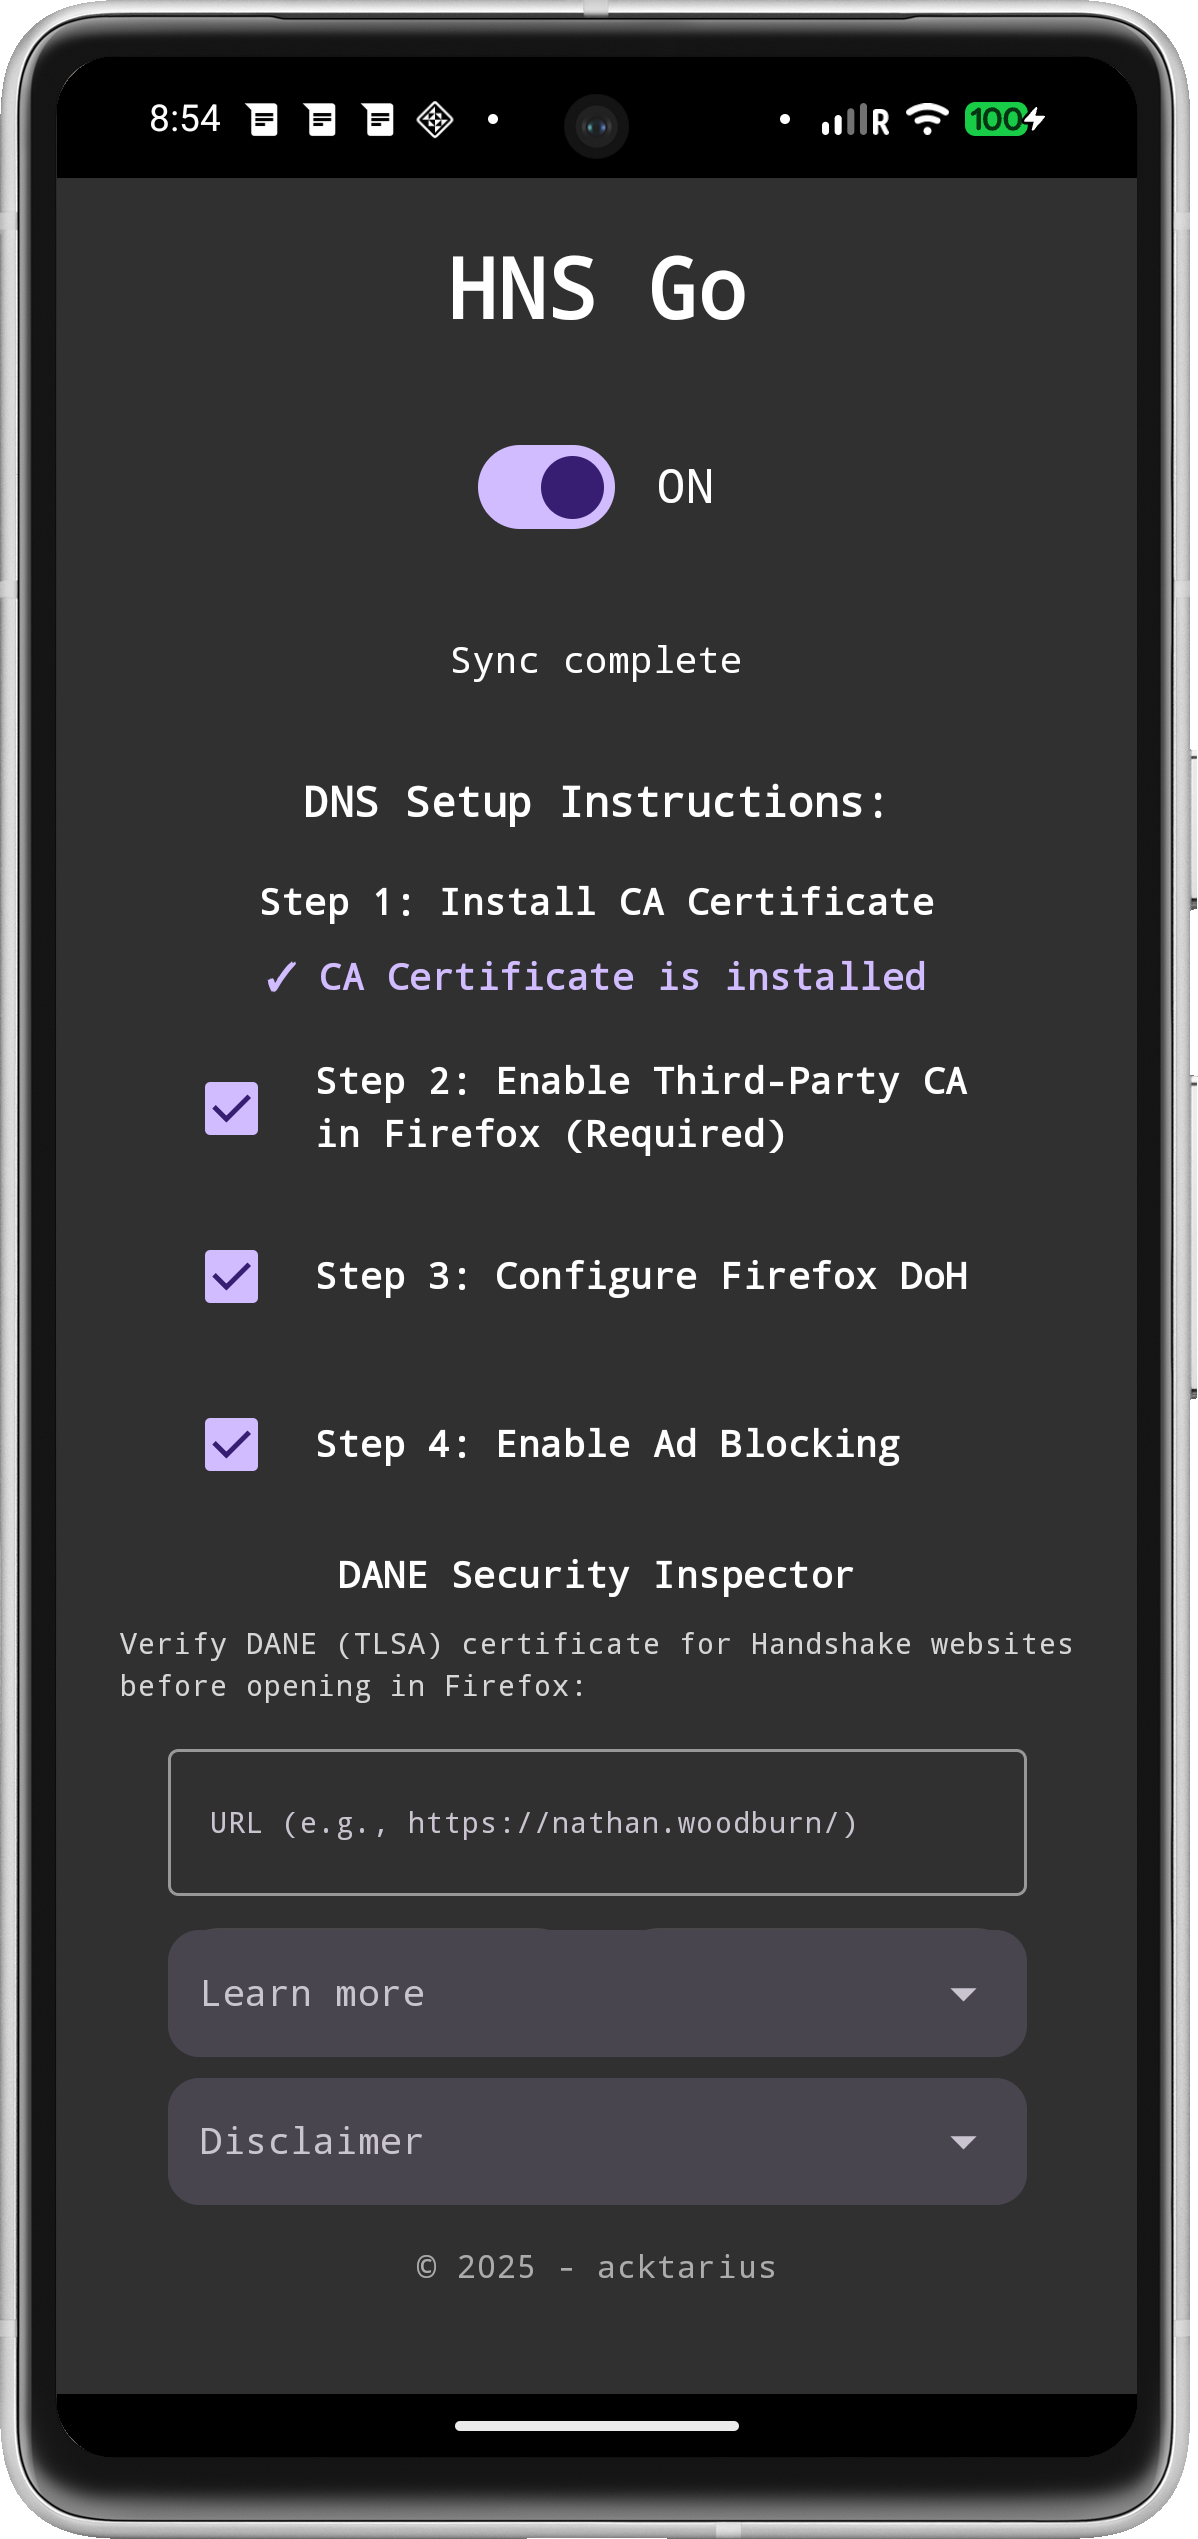
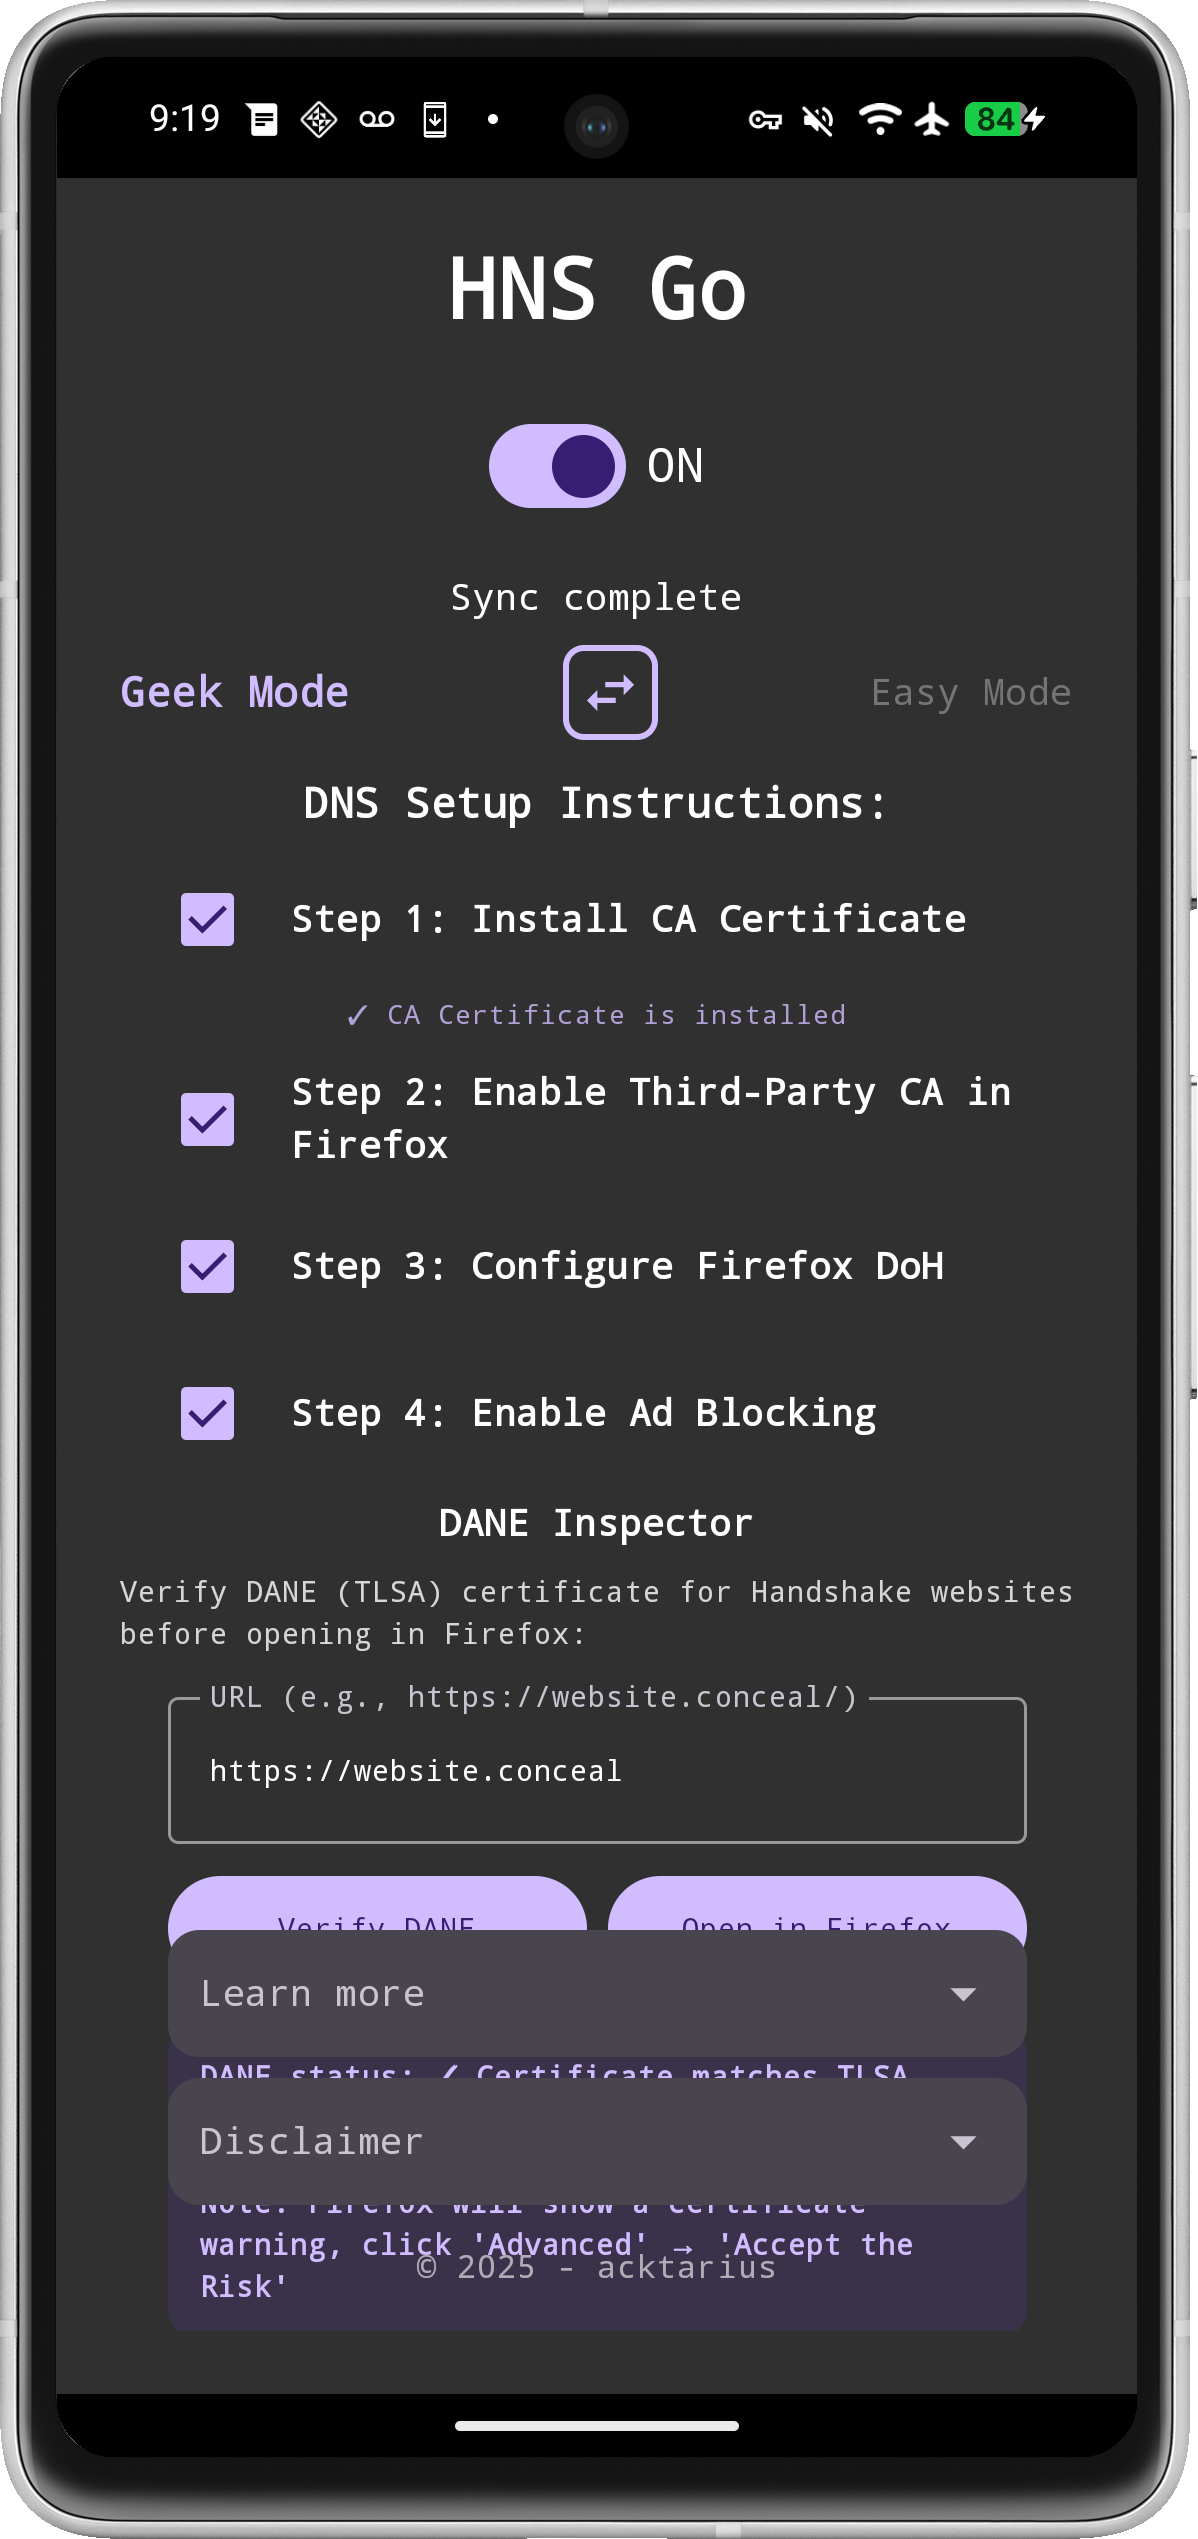
improve rss compatibility

diff --git a/android/app/src/main/java/com/acktarius/hnsgo/browser/WebViewBrowser.kt b/android/app/src/main/java/com/acktarius/hnsgo/browser/WebViewBrowser.kt
@@ -26,8 +26,8 @@ import androidx.compose.foundation.layout.padding
 import androidx.compose.foundation.layout.size
 import androidx.compose.foundation.shape.RoundedCornerShape
 import androidx.compose.material.icons.Icons
-import androidx.compose.material.icons.filled.ArrowBack
-import androidx.compose.material.icons.filled.ArrowForward
+import androidx.compose.material.icons.automirrored.filled.ArrowBack
+import androidx.compose.material.icons.automirrored.filled.ArrowForward
 import androidx.compose.material.icons.filled.Close
 import androidx.compose.material.icons.filled.Home
 import androidx.compose.material.icons.filled.Refresh
@@ -167,7 +167,7 @@ fun WebViewBrowser(
                 glowColor = primaryPurple
             ) {
                 Icon(
-                    Icons.Default.ArrowBack,
+                    Icons.AutoMirrored.Filled.ArrowBack,
                     contentDescription = "Back",
                     modifier = Modifier.size(20.dp),
                     tint = primaryPurple
@@ -180,7 +180,7 @@ fun WebViewBrowser(
                 glowColor = primaryPurple
             ) {
                 Icon(
-                    Icons.Default.ArrowForward,
+                    Icons.AutoMirrored.Filled.ArrowForward,
                     contentDescription = "Forward",
                     modifier = Modifier.size(20.dp),
                     tint = primaryPurple
@@ -486,10 +486,13 @@ fun WebViewBrowser(
                             @android.webkit.JavascriptInterface
                             fun clearCookiesAndHistory(): Boolean {
                                 return try {
-                                    BrowserPrivacyUtils.clearAllPrivacyDataSync(
-                                        webView = webViewState,
-                                        dao = dao
-                                    )
+                                    // Use the async function that properly clears database history
+                                    runBlocking {
+                                        BrowserPrivacyUtils.clearCookiesAndHistory(
+                                            webView = webViewState,
+                                            dao = dao
+                                        )
+                                    }
                                     true
                                 } catch (e: Exception) {
                                     android.util.Log.e("WebViewBrowser", "Error clearing data: ${e.message}", e)
@@ -503,6 +506,48 @@ fun WebViewBrowser(
                                 view: WebView?,
                                 request: WebResourceRequest?
                             ): Boolean {
+                                // Check if this is an RSS feed URL - intercept it to prevent download
+                                request?.url?.toString()?.let { url ->
+                                    val urlLower = url.lowercase()
+                                    val urlPath = try {
+                                        val uri = java.net.URI(urlLower)
+                                        uri.path ?: ""
+                                    } catch (e: Exception) {
+                                        val pathStart = urlLower.indexOf('/', urlLower.indexOf("://") + 3)
+                                        if (pathStart >= 0) urlLower.substring(pathStart) else ""
+                                    }
+                                    
+                                    // If it's an RSS feed URL, manually intercept and load through our interceptor
+                                    if (urlPath.isNotEmpty() && (
+                                        urlPath.contains("/rss") || 
+                                        urlPath.contains("/feed") || 
+                                        urlPath.contains("/atom") ||
+                                        urlPath.endsWith(".rss") ||
+                                        (urlPath.endsWith(".xml") && (urlPath.contains("rss") || urlPath.contains("feed")))
+                                    )) {
+                                        // Manually intercept the RSS feed
+                                        scope.launch(Dispatchers.IO) {
+                                            try {
+                                                val response = dnsInterceptor.interceptRequest(request)
+                                                if (response != null) {
+                                                    // Read the HTML response
+                                                    val htmlBytes = response.data.readBytes()
+                                                    val html = String(htmlBytes, Charsets.UTF_8)
+                                                    
+                                                    // Load the HTML on main thread
+                                                    withContext(Dispatchers.Main) {
+                                                        view?.loadDataWithBaseURL(url, html, "text/html", "UTF-8", null)
+                                                    }
+                                                }
+                                            } catch (e: Exception) {
+                                                android.util.Log.e("WebViewBrowser", "Error intercepting RSS feed: ${e.message}", e)
+                                            }
+                                        }
+                                        // Return true to tell WebView we're handling this
+                                        return true
+                                    }
+                                }
+                                
                                 // Allow all navigation - don't block same-origin or fragment changes
                                 // This is critical for JavaScript navigation and in-page links
                                 return false // Let WebView handle the navigation
@@ -817,18 +862,12 @@ fun WebViewBrowser(
     
     DisposableEffect(Unit) {
         onDispose {
-            // Privacy: Clear all cookies and data when browser is closed
-            // Fast non-blocking clear, then destroy WebView immediately
+            // Privacy: Clear cookies and cache when browser is closed (preserves history)
             BrowserPrivacyUtils.clearAllPrivacyDataSync(
                 webView = webViewState,
                 dao = null // Skip database in sync version to prevent ANR
             )
             webViewState?.destroy()
-            
-            // Clear database asynchronously (non-blocking)
-            scope.launch(Dispatchers.IO) {
-                dao.clearHistory()
-            }
         }
     }
 }

diff --git a/android/app/src/main/java/com/acktarius/hnsgo/browser/InterceptRss.kt b/android/app/src/main/java/com/acktarius/hnsgo/browser/InterceptRss.kt
@@ -18,24 +18,57 @@ object InterceptRss {
     /**
      * Check if a response is an RSS/Atom feed based on MIME type or content
      */
-    fun isRssFeed(mimeType: String, bodyBytes: ByteArray?): Boolean {
-        // Check MIME type
-        val mimeLower = mimeType.lowercase()
-        if (mimeLower.contains("rss") || 
-            mimeLower.contains("atom") ||
-            mimeLower == "application/xml" ||
-            mimeLower == "text/xml") {
-            
-            // For XML types, check content to confirm it's actually RSS/Atom
-            if (bodyBytes != null && bodyBytes.isNotEmpty()) {
-                val content = String(bodyBytes, StandardCharsets.UTF_8).lowercase()
-                return content.contains("<rss") || 
-                       content.contains("<feed") ||
-                       content.contains("xmlns=\"http://www.w3.org/2005/atom\"")
+    fun isRssFeed(mimeType: String, bodyBytes: ByteArray?, url: String? = null): Boolean {
+        // Check URL pattern first (fast check) - be more specific to avoid false positives
+        url?.let {
+            val urlLower = it.lowercase()
+            // Check for RSS/feed/atom in the path (after domain), not in domain name
+            val urlPath = try {
+                val uri = java.net.URI(urlLower)
+                uri.path ?: ""
+            } catch (e: Exception) {
+                // Fallback: extract path manually
+                val pathStart = urlLower.indexOf('/', urlLower.indexOf("://") + 3)
+                if (pathStart >= 0) urlLower.substring(pathStart) else ""
             }
-            return true
+            
+            // Check path for RSS indicators (not domain name) - only if path exists
+            if (urlPath.isNotEmpty() && (
+                urlPath.contains("/rss") || 
+                urlPath.contains("/feed") || 
+                urlPath.contains("/atom") ||
+                urlPath.endsWith(".rss") ||
+                (urlPath.endsWith(".xml") && (urlPath.contains("rss") || urlPath.contains("feed")))
+            )) {
+                return true
+            }
         }
-        return false
+        
+        // Always check content if available (more reliable than MIME type)
+        if (bodyBytes != null && bodyBytes.isNotEmpty()) {
+            try {
+                val content = String(bodyBytes, StandardCharsets.UTF_8)
+                val contentLower = content.lowercase()
+                // Check for RSS/Atom XML structure in content
+                if (contentLower.contains("<rss") || 
+                    contentLower.contains("<feed") ||
+                    contentLower.contains("xmlns=\"http://www.w3.org/2005/atom\"") ||
+                    (contentLower.trimStart().startsWith("<?xml") && 
+                     (contentLower.contains("<channel") || contentLower.contains("<entry")))) {
+                    return true
+                }
+            } catch (e: Exception) {
+                // If content parsing fails, fall through to MIME type check
+                android.util.Log.e(TAG, "Error parsing content for RSS detection: ${e.message}", e)
+            }
+        }
+        
+        // Also check MIME type as fallback
+        val mimeLower = mimeType.lowercase()
+        return mimeLower.contains("rss") || 
+               mimeLower.contains("atom") ||
+               mimeLower == "application/xml" ||
+               mimeLower == "text/xml"
     }
     
     /**
@@ -45,12 +78,18 @@ object InterceptRss {
         val feedContent = String(bodyBytes, StandardCharsets.UTF_8)
         val html = generateFeedViewerHtml(feedContent, feedUrl)
         
+        // Headers that prevent download and ensure HTML rendering
+        val headers = mapOf(
+            "Content-Type" to "text/html; charset=UTF-8",
+            "Content-Disposition" to "inline" // Prevent download, force inline display
+        )
+        
         return WebResourceResponse(
             "text/html",
             "UTF-8",
             200,
             "OK",
-            mapOf("Content-Type" to "text/html; charset=UTF-8"),
+            headers,
             ByteArrayInputStream(html.toByteArray(StandardCharsets.UTF_8))
         )
     }
@@ -161,18 +200,22 @@ object InterceptRss {
      * Extract feed title from RSS/Atom content
      */
     private fun extractFeedTitle(content: String): String {
-        // Try RSS format
-        val rssTitle = Regex("<title[^>]*>(.*?)</title>", RegexOption.DOT_MATCHES_ALL)
-            .find(content)?.groupValues?.get(1)?.trim()
-        if (!rssTitle.isNullOrEmpty()) {
-            return rssTitle.replace(Regex("<[^>]+>"), "").trim()
+        // Try RSS format - look for channel title specifically
+        val channelPattern = Regex("<channel[^>]*>(.*?)</channel>", RegexOption.DOT_MATCHES_ALL)
+        val channelMatch = channelPattern.find(content)
+        if (channelMatch != null) {
+            val channelContent = channelMatch.groupValues[1]
+            val rssTitle = extractTagContent(channelContent, "title")
+            if (!rssTitle.isNullOrEmpty()) {
+                return rssTitle.replace(Regex("<[^>]+>"), "").trim()
+            }
         }
         
-        // Try Atom format
-        val atomTitle = Regex("<title[^>]*>(.*?)</title>", RegexOption.DOT_MATCHES_ALL)
+        // Fallback: try any title tag (for malformed RSS or Atom)
+        val anyTitle = Regex("<title[^>]*>(.*?)</title>", RegexOption.DOT_MATCHES_ALL)
             .find(content)?.groupValues?.get(1)?.trim()
-        if (!atomTitle.isNullOrEmpty()) {
-            return atomTitle.replace(Regex("<[^>]+>"), "").trim()
+        if (!anyTitle.isNullOrEmpty()) {
+            return anyTitle.replace(Regex("<[^>]+>"), "").trim()
         }
         
         return "RSS Feed"

diff --git a/android/app/src/main/assets/html/index.html b/android/app/src/main/assets/html/index.html
@@ -71,12 +71,13 @@
 </head>
 <body>
     <div class="container">
-        <h1>HNS Go - Step by Step Installation Guide</h1>
-        
+        <h1>HNS Go - Step by Step Installation Guide - "GEEK" Mode</h1>
+        <p>"Geek" mode: through a serie of steps, conducted in checklist manner, will ensure you can access Handshake domain directly on your Firefox app.</p>
+        <p><em>Note: "Easy" mode is available for those who want to use the HNS Go built-in WebView browser, which automatically enforces DoH usage and privacy features.</em></p>
+   
         <h2>Step 1: Install CA Certificate (Required)</h2>
         <div class="step">
             <p>The CA certificate must be installed in Android's trust store for Firefox to trust the DoH server.</p>
-            
             <p class="step-number">1.1 Tap "Save Certificate" to Downloads</p>
             <!-- <img src="/screenshot/screenshot011.png" alt="Save Certificate button" class="screenshot"> -->
             

diff --git a/android/app/src/main/java/com/acktarius/hnsgo/browser/WebViewDnsInterceptor.kt b/android/app/src/main/java/com/acktarius/hnsgo/browser/WebViewDnsInterceptor.kt
@@ -279,9 +279,13 @@ class WebViewDnsInterceptor {
             val bodyBytes = body?.bytes() ?: ByteArray(0)
             
             // Check if this is an RSS/Atom feed and convert to HTML viewer
-            if (InterceptRss.isRssFeed(mimeType, bodyBytes)) {
-                val feedUrl = uri.toString()
-                return InterceptRss.convertFeedToHtml(bodyBytes, feedUrl)
+            // Use request URL to ensure we have the original URL
+            val requestUrl = request.url.toString()
+            val feedUrl = uri.toString()
+            val urlToCheck = requestUrl.ifEmpty { feedUrl }
+            
+            if (InterceptRss.isRssFeed(mimeType, bodyBytes, urlToCheck)) {
+                return InterceptRss.convertFeedToHtml(bodyBytes, urlToCheck)
             }
             
             WebResourceResponse(

diff --git a/android/app/src/main/java/com/acktarius/hnsgo/browser/utils/BrowserPrivacyUtils.kt b/android/app/src/main/java/com/acktarius/hnsgo/browser/utils/BrowserPrivacyUtils.kt
@@ -135,7 +135,6 @@ object BrowserPrivacyUtils {
             // Clear WebView data (must be on main thread, but we're already there)
             webView?.let { view ->
                 view.clearCache(true)
-                view.clearHistory()
                 view.clearFormData()
             }
             
